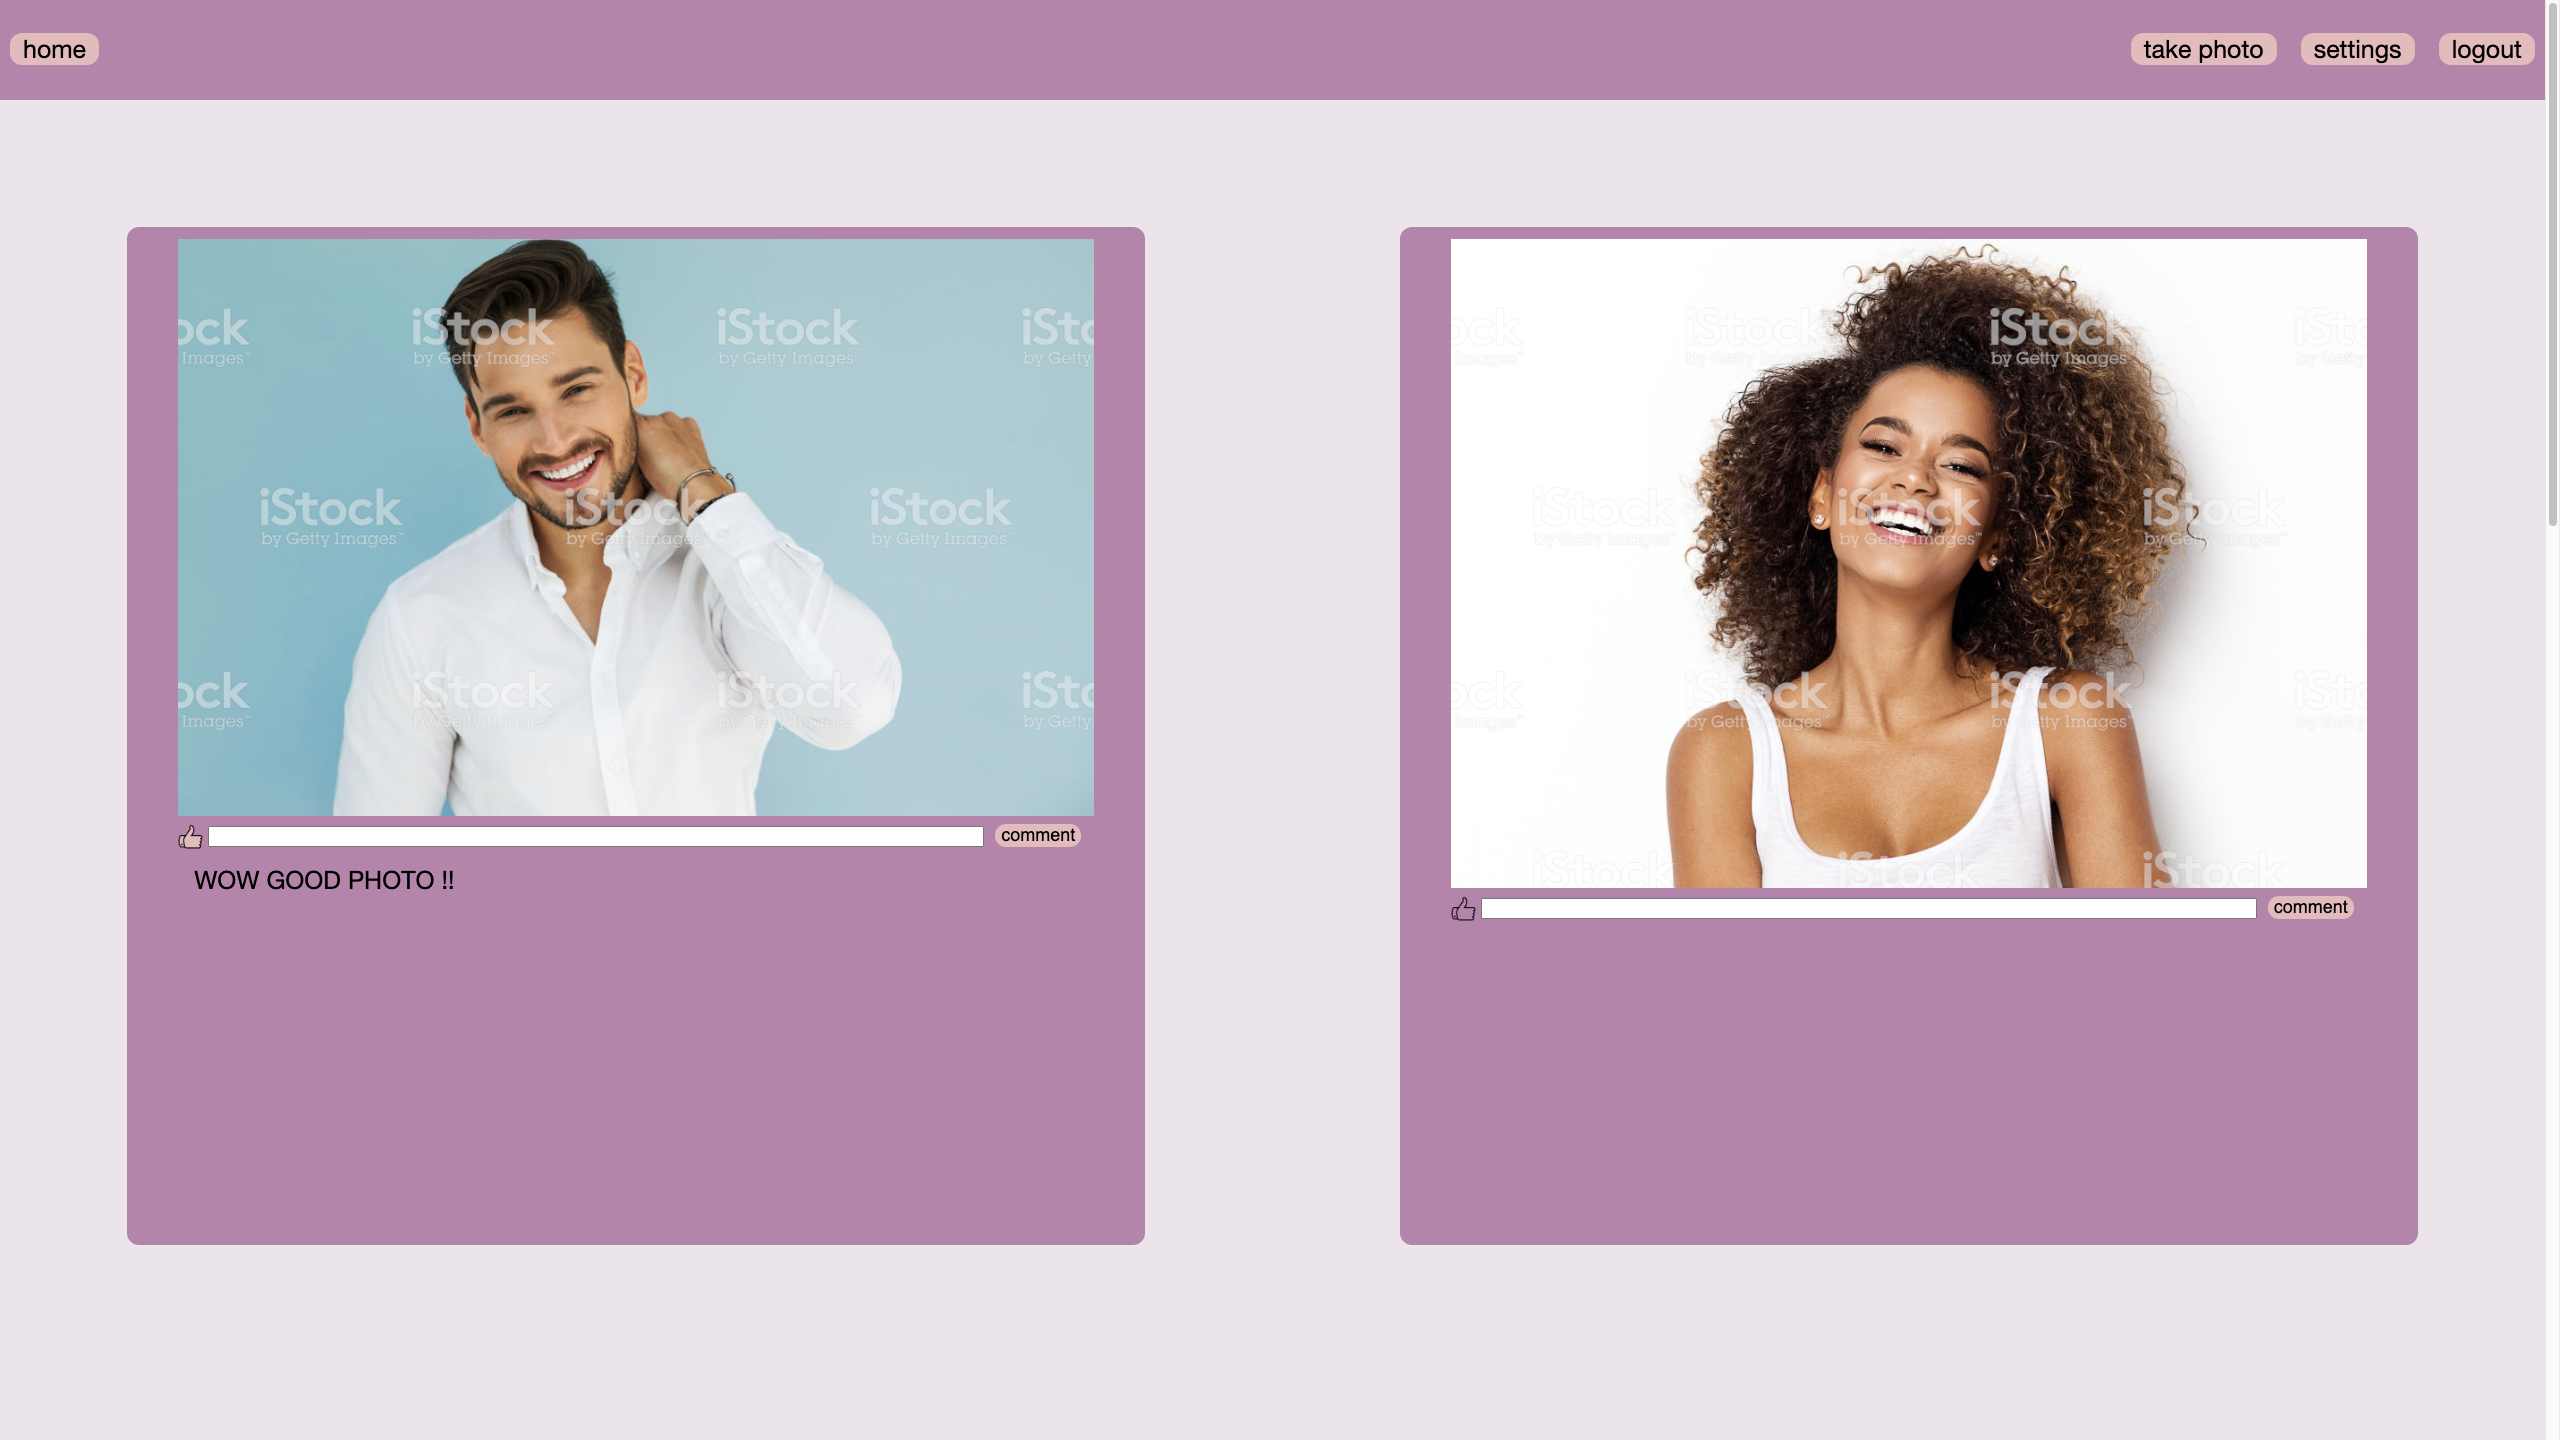
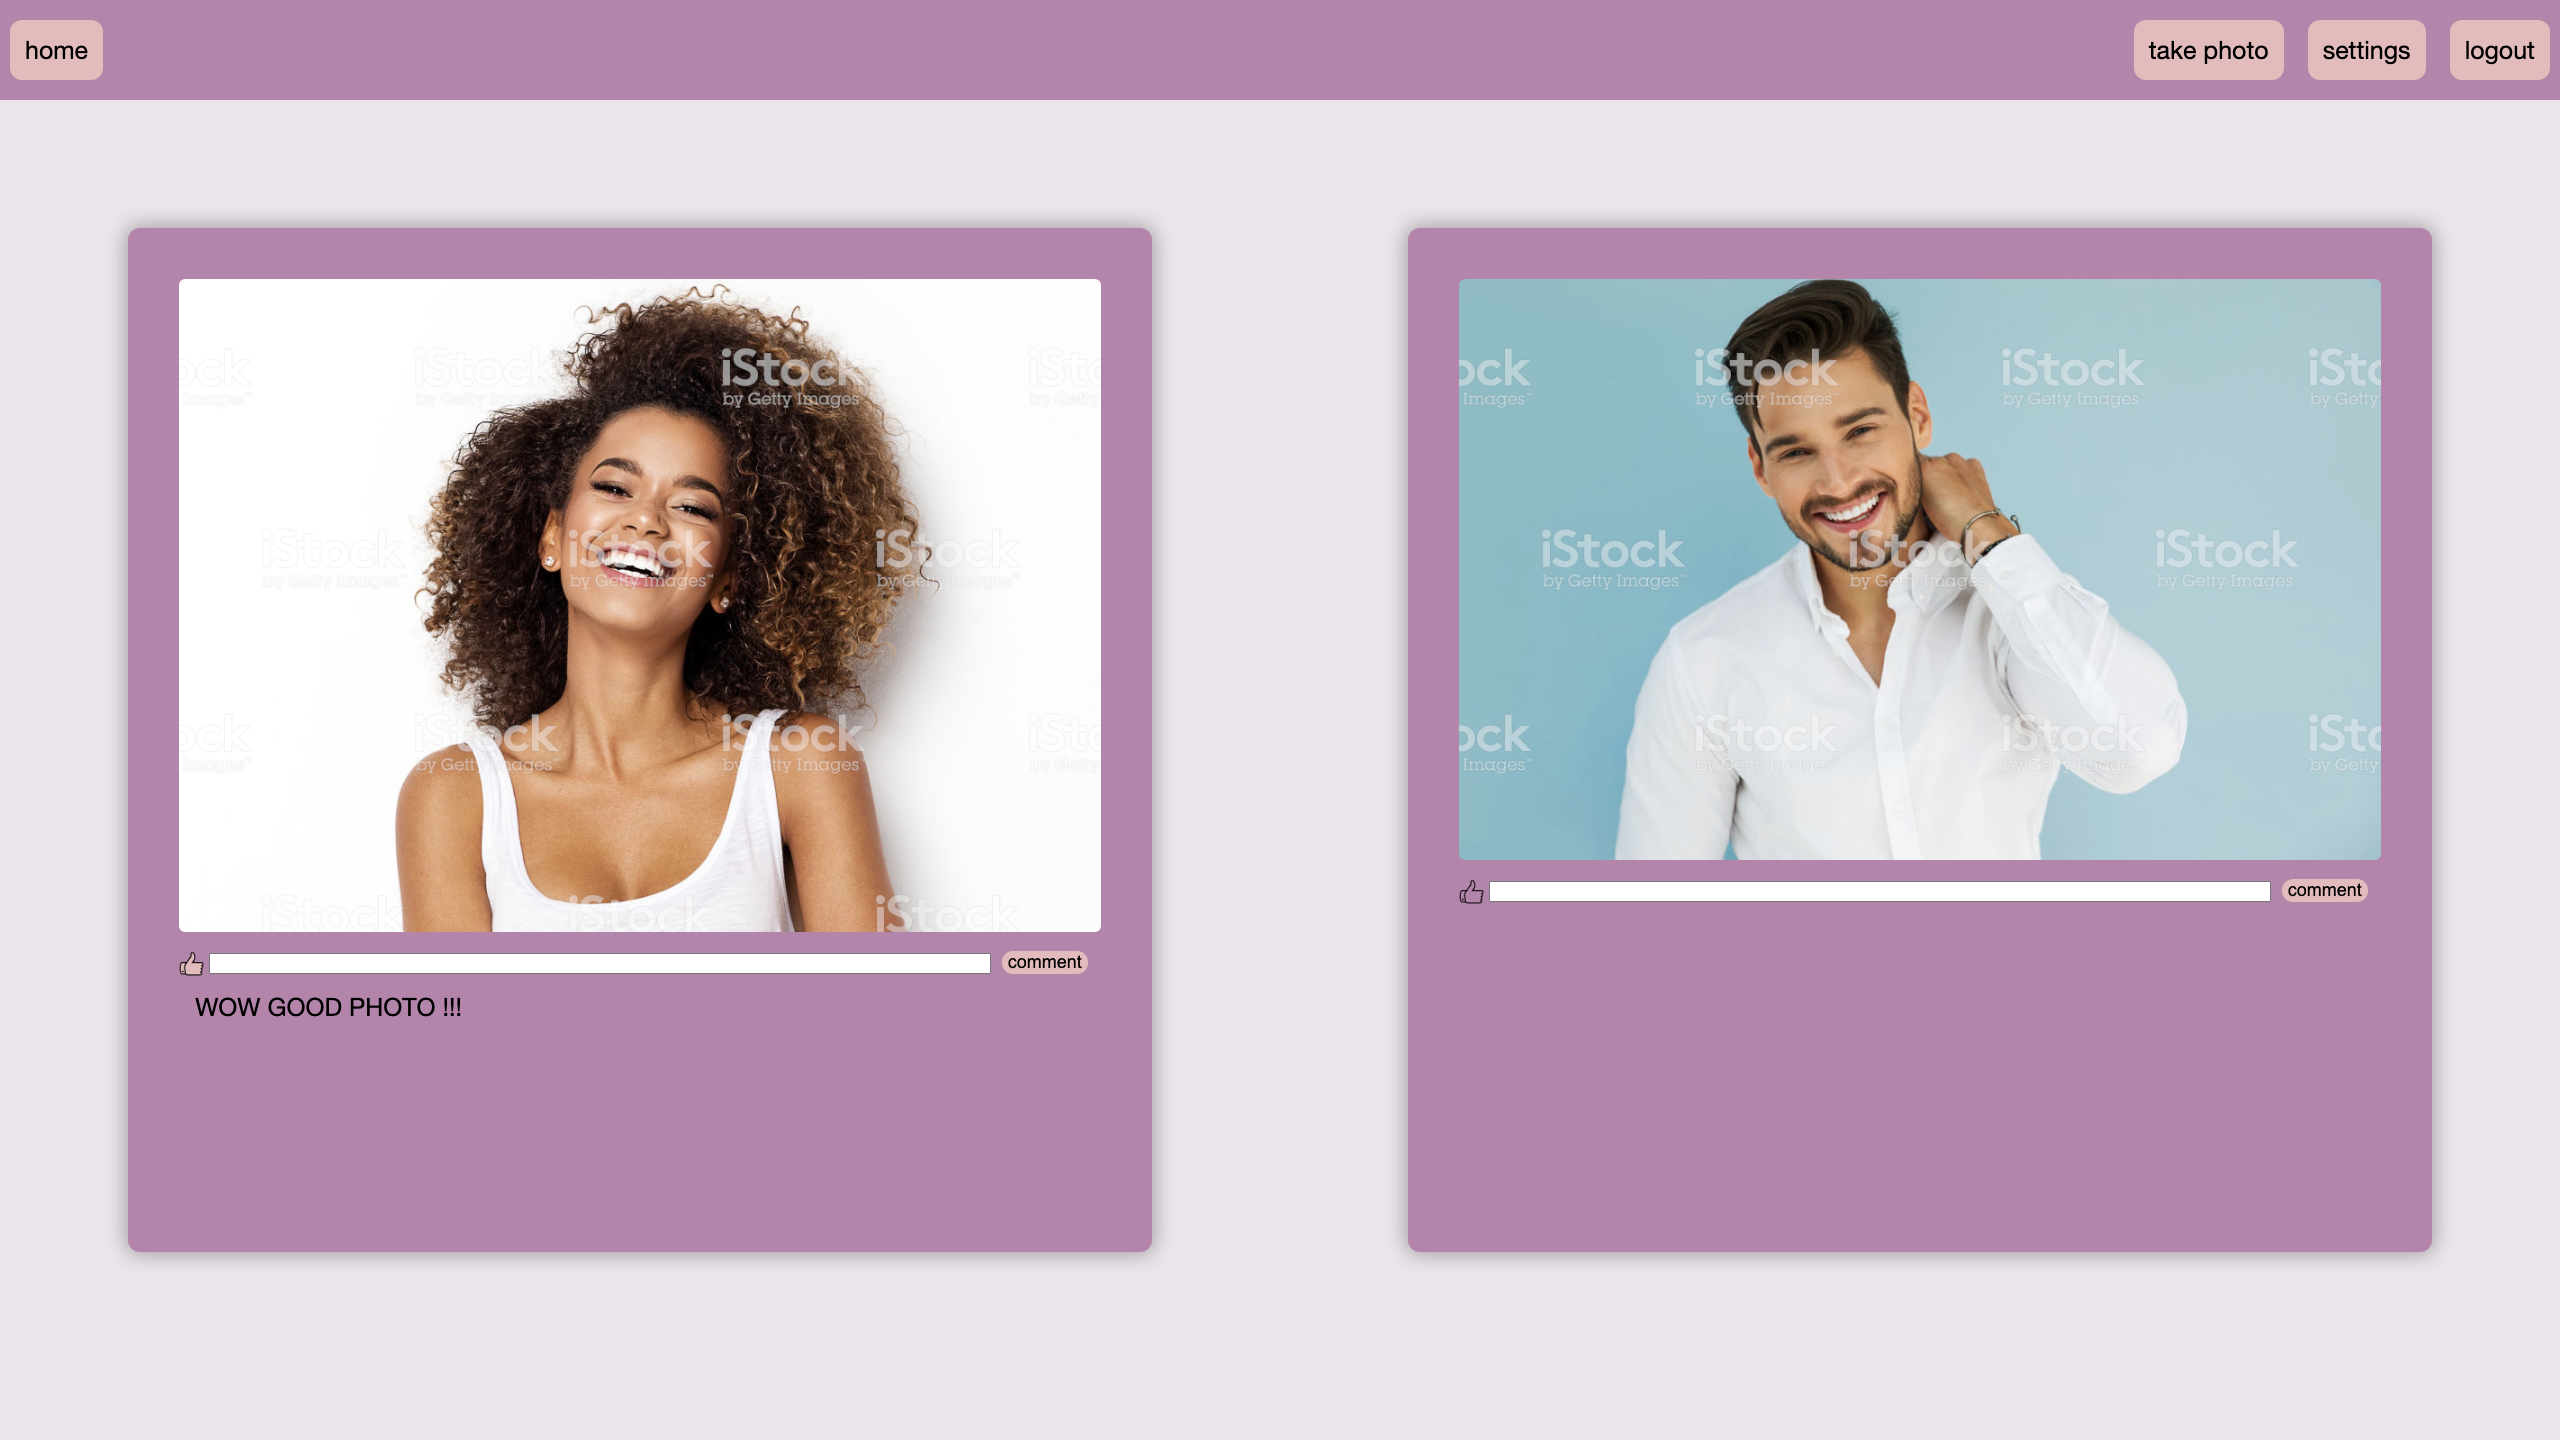
change take_photo and home style

diff --git a/styles/take_photo.css b/styles/take_photo.css
@@ -12,6 +12,7 @@
 	height: 67%;
 	position:relative;
 	text-align: center;
+	box-shadow: 0 0 20px 2px #00000052;
 }
 
 #side
@@ -26,6 +27,7 @@
 	width: 20%;
 	float: right;
 	height: 67%;
+	box-shadow: 0 0 20px 2px #00000052;
 
 	overflow: scroll;
 	-ms-overflow-style: none;
@@ -36,12 +38,20 @@
 	display: none;
 }
 
+#video-container
+{
+	top: 115px;
+	position: relative;
+	border-radius: 10px;
+	overflow: hidden;
+	max-width: 940px;
+	max-height: 700px;
+	margin: auto;
+}
+
 #video
 {
-	width: 660px;
-	position: absolute;
-	left: calc(50% - 330px);
-	bottom: 10px;
+	width: 100%;
 }
 
 #canvas

diff --git a/styles/images.css b/styles/images.css
@@ -1,9 +1,10 @@
 .image
 {
 	position: absolute;
-	top: 12px;
+	top: 0px;
 	width: 90%;
-	left: 5%;
+	margin: 5%;
+	border-radius: 6px;
 }
 
 .comment-section
@@ -11,11 +12,9 @@
 	font-family: Open Sans,Helvetica Neue,Helvetica,Arial,sans-serif;
 	font-size: 25px;
 	display: inline-block;
-	margin-top: 100px;
 	position: absolute;
 	width: 90%;
-	left: 5%;
-	margin: 0;
+	margin: 5%;
 }
 
 .comment-list
@@ -58,6 +57,7 @@
 	background-color:rgb(181, 132, 171);
 	border-radius: 12px;
 	margin: 5%;
+	box-shadow: 0 0 20px 2px #00000052;
 }
 
 .comment-form

diff --git a/styles/top_bar.css b/styles/top_bar.css
@@ -23,13 +23,12 @@
 	font-size:25px;
 	margin-right:10px;
 	margin-left:10px;
-	margin-top:33px;
-	margin-bottom:33px;
+	margin-top:20px;
+	margin-bottom:20px;
 	border:0;
 	background-color: rgb(227, 188, 188);
 	border-radius: 12px;
-	padding-left: 13px;
-	padding-right: 13px;
+	padding: 15px;
 }
 
 #home

diff --git a/photo_list.php b/photo_list.php
@@ -25,7 +25,7 @@
 		for (let i = 0; i < comment_section.length; i++)
 		{
 			comment_section[i].style.top = comment_section[i].previousSibling.height + 20;
-			comment_section[i].children[2].style.height = document.getElementsByClassName('img-container')[0].offsetHeight - parseInt(comment_section[i].style.top, 10) - 24;
+			comment_section[i].children[2].style.height = document.getElementsByClassName('img-container')[0].offsetHeight - (parseInt(comment_section[i].style.top, 10) + document.getElementsByClassName('img-container')[0].offsetWidth * 0.05 + 25);
 		}
 	};
 	$.ajax({
@@ -85,7 +85,7 @@
 					comment.maxLength = "256";
 					img.onload = function() {
 						this.nextSibling.style.top = this.height + 20;
-						this.nextElementSibling.children[2].style.height = document.getElementsByClassName('img-container')[0].offsetHeight - parseInt(this.nextSibling.style.top, 10) - 24;
+						this.nextElementSibling.children[2].style.height = document.getElementsByClassName('img-container')[0].offsetHeight - (parseInt(this.nextSibling.style.top, 10) + document.getElementsByClassName('img-container')[0].offsetWidth * 0.05 + 25);
 						}
 
 					var comment_button = document.createElement("input");

diff --git a/take_photo.php b/take_photo.php
@@ -41,7 +41,7 @@
 			<label id="choose-file" for="file">choose a file</label>
 			<input id="upload-image" type="button" onclick="upload_photo()" value="upload image">
 		</form>
-		<video id="video"></video>
+		<div id="video-container"><video id="video"></video></div>
 		<canvas id="canvas"></canvas>
 	</div>
 	<div id="side">
